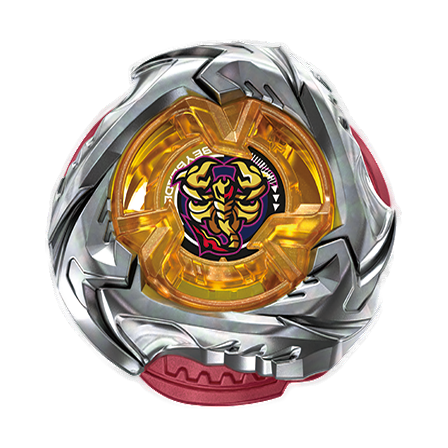
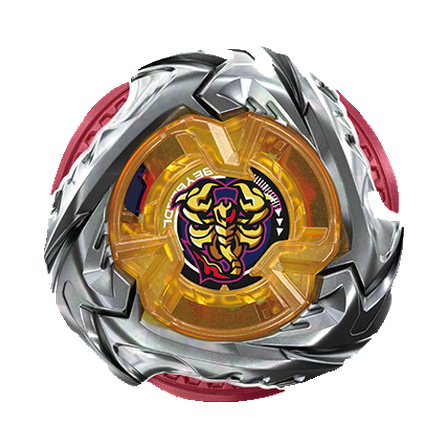
fix: correct Leon Phoenix and Scorpio images

diff --git a/index.html b/index.html
@@ -484,7 +484,7 @@
         "#app/services": "./src/app-services.js?v=20260714-scroll-affordance-overlay",
         "#app/markup-core": "./src/markup-core.js?v=20260714-scroll-affordance-overlay",
         "#app/anime-core": "./src/anime-core.js?v=20260720-burst-airdate-notes",
-        "#app/data-store": "./src/data-store.js?v=20260807-x-phoenix-wing-generated-front",
+        "#app/data-store": "./src/data-store.js?v=20260807-x-scorpio-spear-official-front",
         "#app/search-data-decoder": "./src/search-data-decoder.js?v=20260720-burst-airdate-notes",
         "#app/ui-core": "./src/ui-core.js?v=20260731-mobile-highlight-fix",
         "#app/release-core": "./src/release-core.js?v=20260731-mobile-highlight-fix",

diff --git a/src/data-store.js b/src/data-store.js
@@ -193,7 +193,7 @@ const BeystadiumDataStore = (() => {
   const initialize = async () => {
     clearError();
     try {
-      indexData = await fetchJson("./data/runtime/index.json?v=20260807-x-phoenix-wing-generated-front");
+      indexData = await fetchJson("./data/runtime/index.json?v=20260807-x-scorpio-spear-official-front");
       if (detailHashOnBoot()) await ensureRegistry();
       document.querySelector("[data-load-retry]")?.addEventListener("click", () => window.location.reload());
       return true;

diff --git a/scripts/normalize-x-bey-front-images.py b/scripts/normalize-x-bey-front-images.py
@@ -16,7 +16,7 @@ from PIL import Image
 
 CONFIG_PATH = Path("data/source/x-bey-primary-images.json")
 ANGLE_CONFIG_PATH = Path("data/source/x-bey-angle-corrections.json")
-CONFIG_VERSION = "20260807-x-phoenix-wing-generated-front"
+CONFIG_VERSION = "20260807-x-scorpio-spear-official-front"
 CANVAS_SIZE = 448
 TARGET_FOREGROUND_SIZE = 360
 ALPHA_THRESHOLD = 3
@@ -154,8 +154,8 @@ def main() -> int:
     validate_policy(config)
 
     entries = config_entries(config)
-    if len(entries) != 192:
-        raise ValueError(f"expected 192 front-view Beys, found {len(entries)}")
+    if len(entries) != 193:
+        raise ValueError(f"expected 193 front-view Beys, found {len(entries)}")
     ids = [entry["id"] for entry in entries]
     paths = [entry["image"] for entry in entries]
     if len(set(ids)) != len(ids) or len(set(paths)) != len(paths):

diff --git a/scripts/build-x-bey-angle-corrections.py b/scripts/build-x-bey-angle-corrections.py
@@ -97,6 +97,7 @@ SUPPLIED_FRONT_IDS = {
     "BEY-X-UX-11-IMPACT-DRAKE-9-60LR",
     "BEY-X-UX-12-01-GHOST-CIRCLE-0-80GB",
     "BEY-X-UX-13-GOLEM-ROCK-1-60UN",
+    "BEY-X-UX-14-SCORPIO-SPEAR-0-70Z",
     "BEY-X-UX-15-SHARK-SCALE-4-50UF",
     "BEY-X-BX-46-GORE-TACKLE-7-70T",
     "BEY-X-BX-46-COBALT-DRAKE-9-60R",
@@ -106,7 +107,7 @@ SUPPLIED_FRONT_IDS = {
     "BEY-X-UX-19-BULLET-GRIFFON-H",
     "BEY-X-UX-20-GLORY-VALKYRIE-LF",
 }
-CONFIG_VERSION = "20260807-x-phoenix-wing-generated-front"
+CONFIG_VERSION = "20260807-x-scorpio-spear-official-front"
 
 
 def parse_args() -> argparse.Namespace:

diff --git a/scripts/record-x-image-alpha-review.py b/scripts/record-x-image-alpha-review.py
@@ -14,7 +14,7 @@ from PIL import Image
 CANVAS_SIZE = 448
 MIN_MARGIN = 6
 MAX_FOREGROUND_SIZE = CANVAS_SIZE - MIN_MARGIN * 2
-REVIEW_VERSION = "20260807-x-phoenix-wing-generated-front"
+REVIEW_VERSION = "20260807-x-scorpio-spear-official-front"
 
 
 def parse_args() -> argparse.Namespace:
